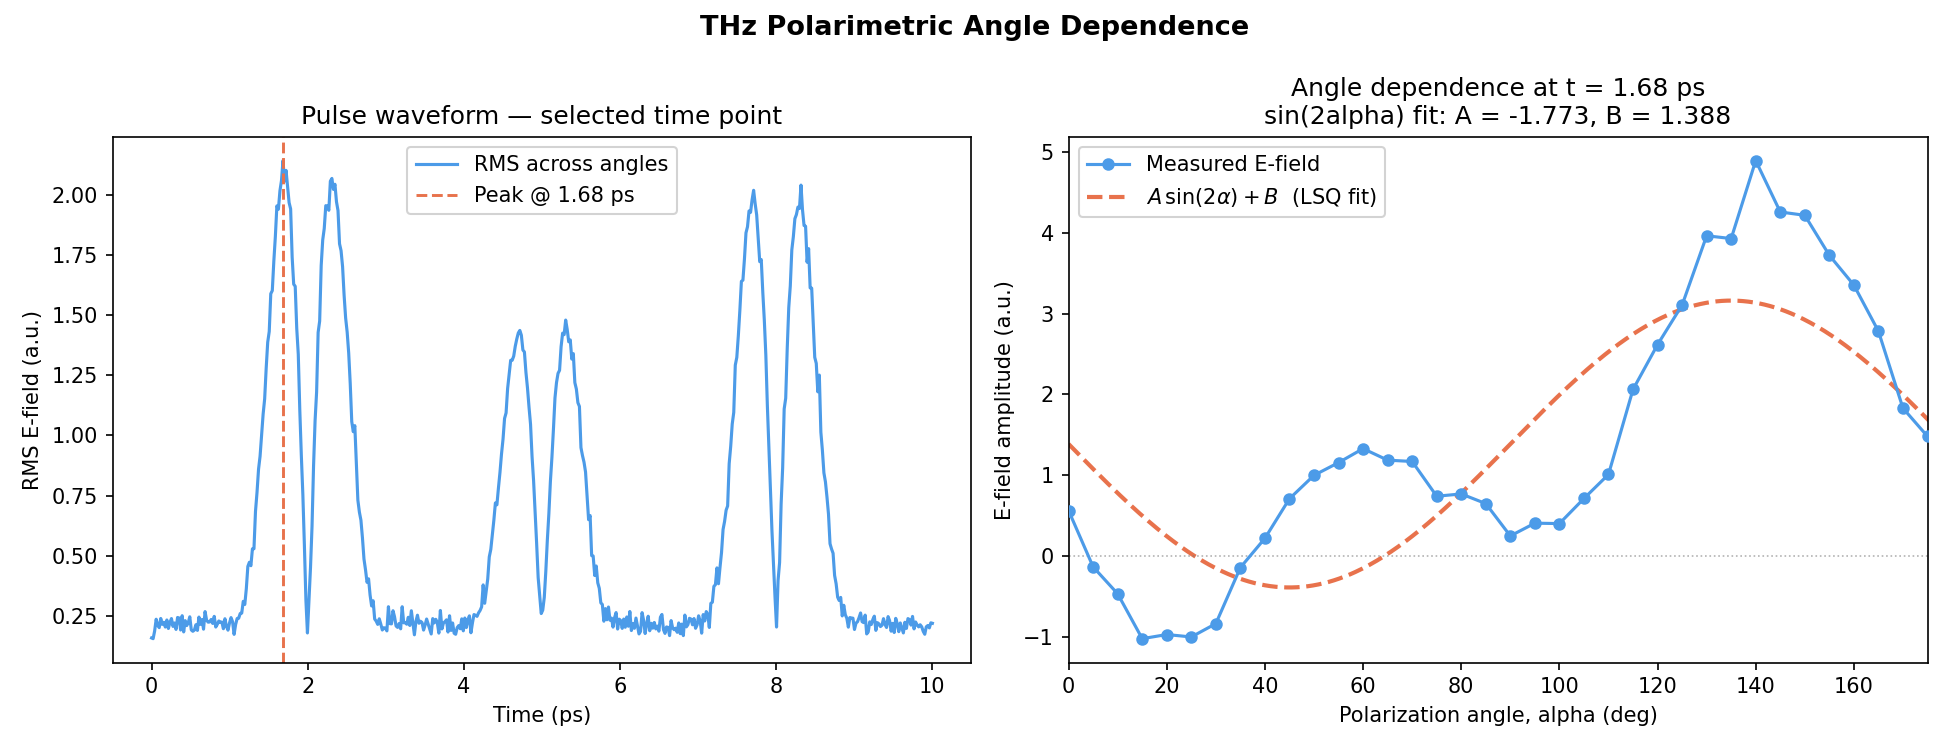
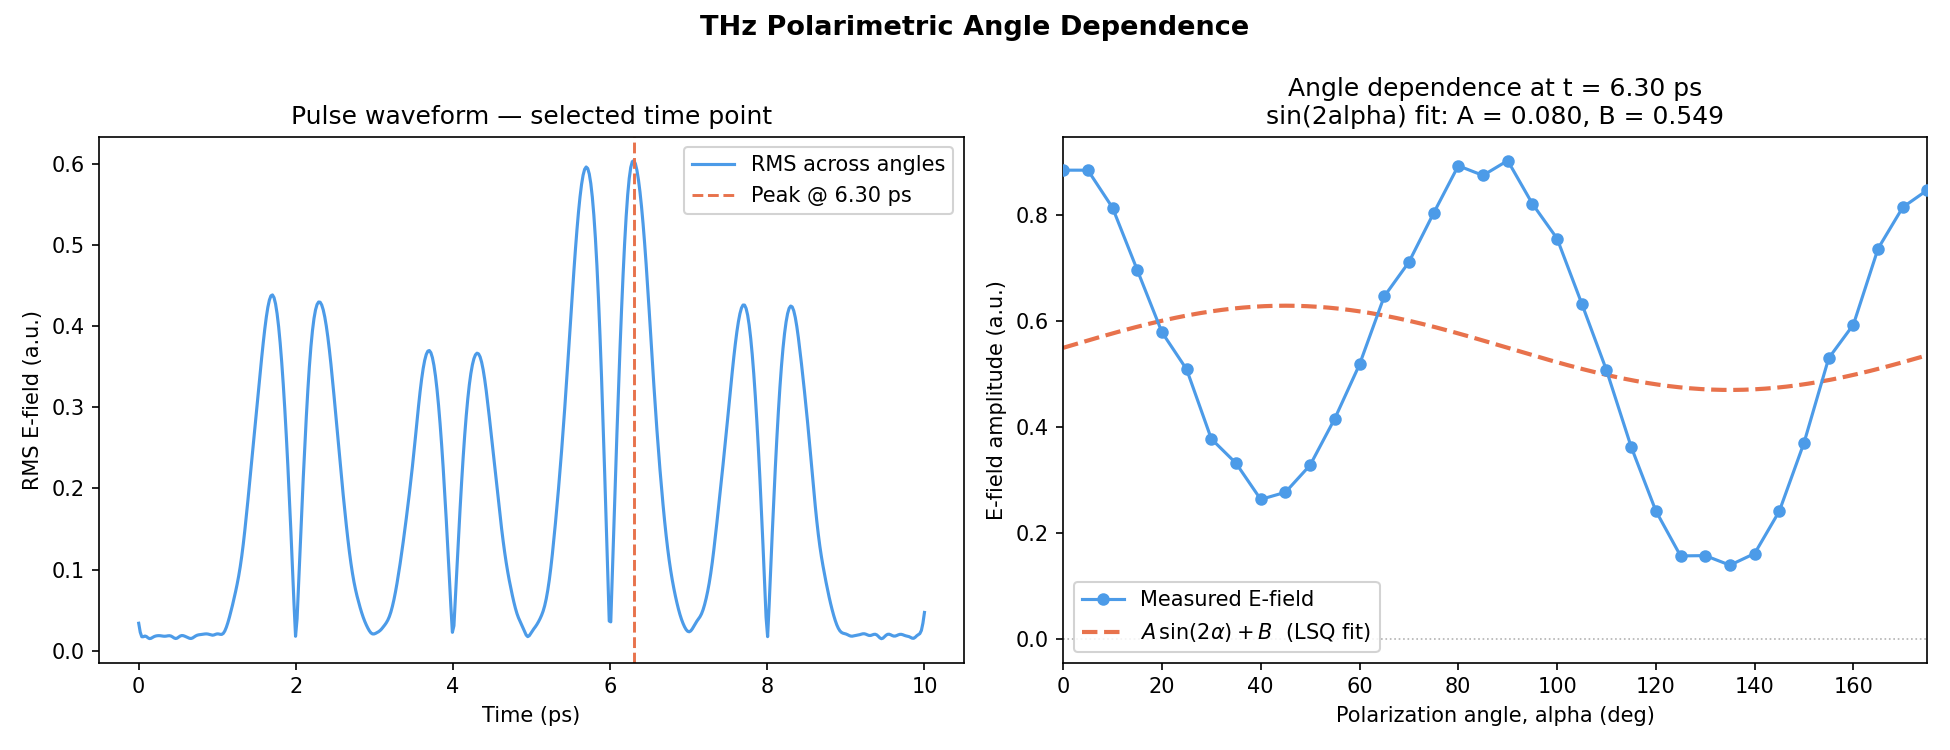
Complete Week 1 pipeline: loader, preprocessing, visualization, and synthetic data integration

diff --git a/week1_main.py b/week1_main.py
@@ -1,25 +1,43 @@
-"""Week 1 integration script — load, preprocess, and plot a THz sweep."""
+"""Week 1 integration script — synthetic data, preprocess, and produce all plots."""
 
-import sys
 import numpy as np
 
 from thz_blind_source_separation import (
-    load_thz_sweep,
+    generate_synthetic_thz,
+    plot_angle_dependence,
+    plot_fft,
     plot_heatmap,
     plot_waveforms_overlay,
     preprocess_waveforms,
 )
 
-file_path = sys.argv[1] if len(sys.argv) > 1 else "data/thz_sweep.csv"
+N_TIMEPOINTS = 512
+N_ANGLES = 36
+T_START_PS = 0.0
+T_END_PS = 10.0
+NOISE_LEVEL = 0.05
+K = 4
 
-waveforms, time_axis = load_thz_sweep(file_path)
+time_axis = np.linspace(T_START_PS, T_END_PS, N_TIMEPOINTS)
+angles = np.linspace(0.0, 180.0, N_ANGLES, endpoint=False)
 
-preprocessed = preprocess_waveforms(waveforms, time_axis)
+X, S = generate_synthetic_thz(
+    K=K,
+    n_angles=N_ANGLES,
+    n_timepoints=N_TIMEPOINTS,
+    noise_level=NOISE_LEVEL,
+    t_start_ps=T_START_PS,
+    t_end_ps=T_END_PS,
+    rng=42,
+)
+print(f"Synthetic data: X={X.shape}, S={S.shape}")
 
-n_angles = preprocessed.shape[1]
-angles = np.linspace(0, 360, n_angles, endpoint=False)
+preprocessed = preprocess_waveforms(X, time_axis)
+print(f"Preprocessed:   shape={preprocessed.shape}")
 
 plot_waveforms_overlay(preprocessed, time_axis, angles=angles)
 plot_heatmap(preprocessed, time_axis, angles=angles)
+plot_fft(preprocessed[:, 0], time_axis)
+plot_angle_dependence(preprocessed, time_axis, angles=angles)
 
-print("All outputs saved: waveforms_overlay.png, heatmap_time_angle.png")
+print("\nAll outputs saved: waveforms_overlay.png, heatmap_time_angle.png, fft_analysis.png, angle_dependence.png")

diff --git a/src/thz_blind_source_separation/preprocessing.py b/src/thz_blind_source_separation/preprocessing.py
@@ -40,14 +40,15 @@ def preprocess_waveforms(
     baseline = np.mean(cleaned[:n_baseline, :], axis=0)
     cleaned = cleaned - baseline[np.newaxis, :]
 
-    # Normalization
-    peaks = np.max(np.abs(cleaned), axis=0)
-    peaks[peaks == 0] = 1.0
-    cleaned = cleaned / peaks[np.newaxis, :]
+    # Global normalization — preserves relative amplitudes across angles
+    global_peak = np.max(np.abs(cleaned))
+    if global_peak == 0.0:
+        global_peak = 1.0
+    cleaned = cleaned / global_peak
 
     # Low-pass filtering using scipy.signal
     try:
-        from scipy.signal import butter, filtfilt
+        from scipy.signal import butter, sosfiltfilt
     except Exception as exc:  # pragma: no cover - environment issues
         raise RuntimeError(
             "scipy is required for filtering; install scipy (pip install scipy)"
@@ -62,7 +63,7 @@ def preprocess_waveforms(
         return cleaned
 
     normal_cutoff = cutoff_hz / nyq
-    b, a = butter(filter_order, normal_cutoff, btype="low", analog=False, output="ba")  # type: ignore[misc]
-    filtered = filtfilt(b, a, cleaned, axis=0)
+    sos = butter(filter_order, normal_cutoff, btype="low", analog=False, output="sos")
+    filtered = sosfiltfilt(sos, cleaned, axis=0)
 
     return filtered